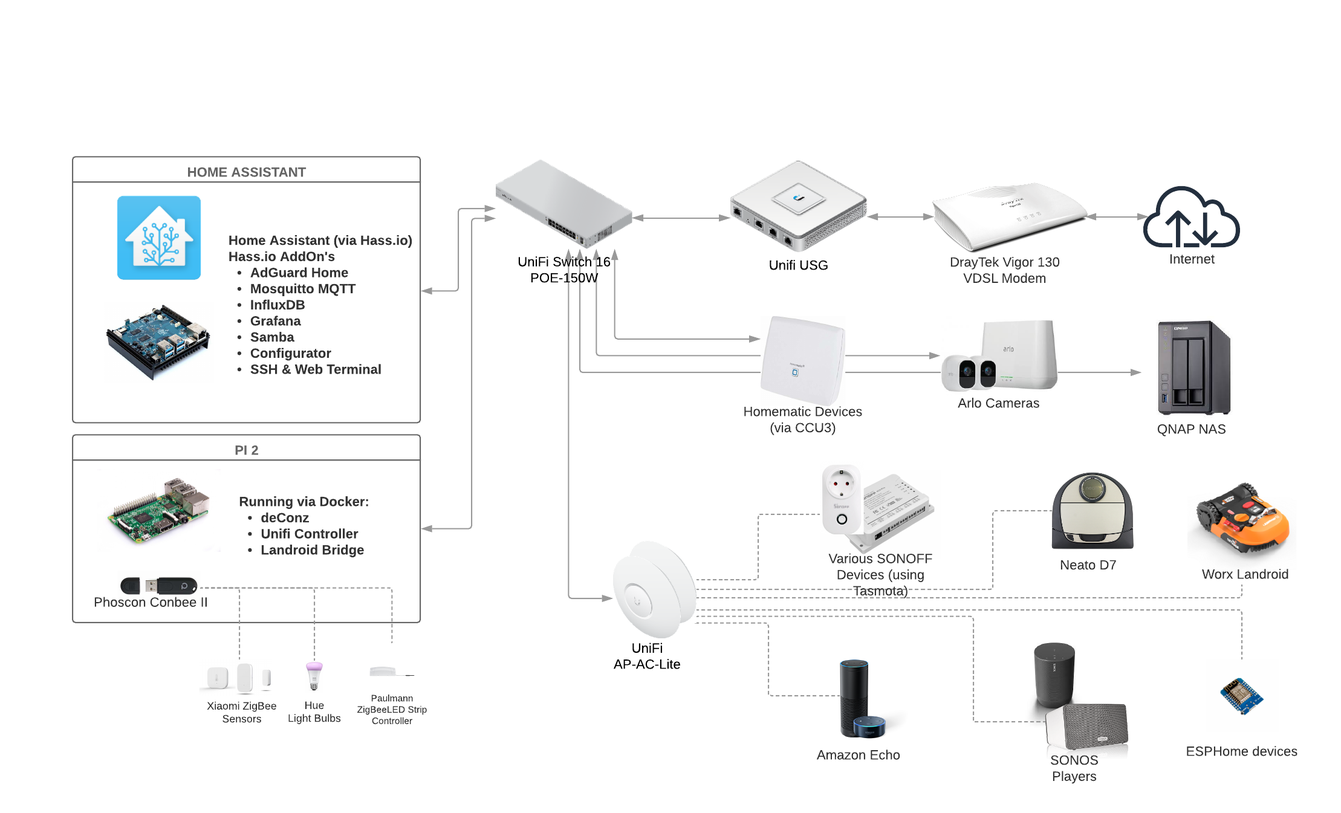
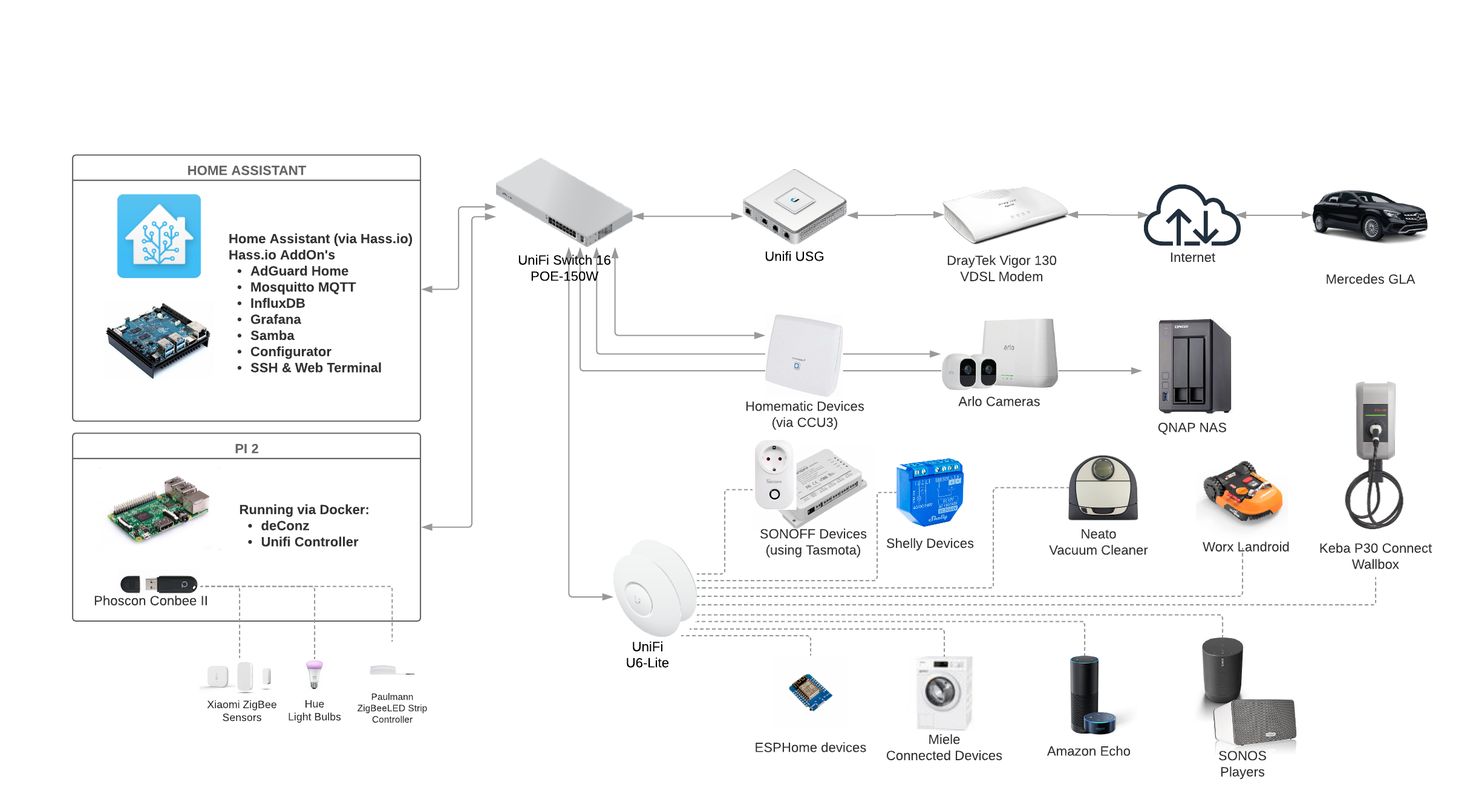
Update readme

diff --git a/readme.md b/readme.md
@@ -49,52 +49,53 @@ My Home Assistant system currently runs on a ODROID-N2. All is managed by hass.i
 
 #### Hubs
 
-| Device                                                                                                      |                          Home Assistant                          | Notes                                 |
-| ----------------------------------------------------------------------------------------------------------- | :--------------------------------------------------------------: | ------------------------------------- |
-| [Homematic CCU3](https://www.homematic-ip.com/en/products/detail/smart-home-central-control-unit-ccu3.html) | [Homematic](https://www.home-assistant.io/components/homematic/) | Used to control all Homematic devices |
-| [deCONZ Conbee II](https://www.phoscon.de/en/conbee2)                                                       |    [deCONZ](https://www.home-assistant.io/components/deconz/)    | The main ZigBee Hub                   |
-| [Arlo Hub](https://shop.arlo.com/accessories.arlo/VMB4000-100NAS.html)                                      | [Aarlo](https://github.com/twrecked/hass-aarlo) custom component | Arlo camera system integration        |
+| Device                                                                                                                                                               |                                                      Home Assistant                                                       | Notes                                                                                          |
+|----------------------------------------------------------------------------------------------------------------------------------------------------------------------|:-------------------------------------------------------------------------------------------------------------------------:|------------------------------------------------------------------------------------------------|
+| [Homematic CCU3](https://www.homematic-ip.com/en/products/detail/smart-home-central-control-unit-ccu3.html)                                                          |                             [Homematic](https://www.home-assistant.io/components/homematic/)                              | Used to control all Homematic devices                                                          |
+| [deCONZ Conbee II](https://www.phoscon.de/en/conbee2)                                                                                                                |                                [deCONZ](https://www.home-assistant.io/components/deconz/)                                 | The main ZigBee Hub                                                                            |
+| [Arlo Hub](https://shop.arlo.com/accessories.arlo/VMB4000-100NAS.html)                                                                                               |                             [Aarlo](https://github.com/twrecked/hass-aarlo) custom component                              | Arlo camera system integration                                                                 |
 
 #### Network
 
-| Device                                                                                                             | Quantity | Home Assistant                                                    | Notes                                                   |
-| ------------------------------------------------------------------------------------------------------------------ | :------: | ----------------------------------------------------------------- | ------------------------------------------------------- |
-| [Ubiquiti Networks UniFi Switch - 16 Ports (US-16-150W)](https://www.ui.com/unifi-switching/unifi-switch-16-150w/) |    1     | [Ubiquiti Unifi](https://www.home-assistant.io/components/unifi/) | Primary network switch                                  |
-| [Ubiquiti Networks USW Flex Mini Swicth (USW-Flex-Mini)](https://store.ui.com/products/usw-flex-mini)              |    1     | [Ubiquiti Unifi](https://www.home-assistant.io/components/unifi/) | Office desk mini switch                                 |
-| [Ubiquiti Networks Unifi AP Lite (UAP-AC-LITE)](https://www.ui.com/unifi/unifi-ap-ac-lite/)                        |    2     | [Ubiquiti Unifi](https://www.home-assistant.io/components/unifi/) | Wireless Access Point for interior use.                 |
-| [Ubiquiti Unifi Security Gateway (USG)](https://www.ui.com/unifi-routing/usg/)                                     |    1     | [Ubiquiti Unifi](https://www.home-assistant.io/components/unifi/) | Main router & firewall device                           |
-| [Draytek Vigor 130 ADSL/VDSL modem](https://www.draytek.com/products/vigor130/)                                    |    1     | n/a                                                               | Main DSL device fot the connection to the outside world |
+| Device                                                                                                                                               |                  Quantity                  | Home Assistant                                                                                     | Notes                                                                                    |
+|------------------------------------------------------------------------------------------------------------------------------------------------------|:------------------------------------------:|----------------------------------------------------------------------------------------------------|------------------------------------------------------------------------------------------|
+| [Ubiquiti Networks UniFi Switch - 16 Ports (US-16-150W)](https://www.ui.com/unifi-switching/unifi-switch-16-150w/)                                   |                     1                      | [Ubiquiti Unifi](https://www.home-assistant.io/components/unifi/)                                  | Primary network switch                                                                   |
+| [Ubiquiti Networks USW Flex Mini Swicth (USW-Flex-Mini)](https://store.ui.com/products/usw-flex-mini)                                                |                     1                      | [Ubiquiti Unifi](https://www.home-assistant.io/components/unifi/)                                  | Office desk mini switch                                                                  |
+| [Ubiquiti Networks Unifi AP Lite (UAP-AC-LITE)](https://www.ui.com/unifi/unifi-ap-ac-lite/)                                                          |                     2                      | [Ubiquiti Unifi](https://www.home-assistant.io/components/unifi/)                                  | Wireless Access Point for interior use.                                                  |
+| [Ubiquiti Unifi Security Gateway (USG)](https://www.ui.com/unifi-routing/usg/)                                                                       |                     1                      | [Ubiquiti Unifi](https://www.home-assistant.io/components/unifi/)                                  | Main router & firewall device                                                            |
+| [Draytek Vigor 130 ADSL/VDSL modem](https://www.draytek.com/products/vigor130/)                                                                      |                     1                      | n/a                                                                                                | Main DSL device fot the connection to the outside world                                  |
 
 On network gear we are all-in for Unifi devices, they provide a reliable and stable network for our house. Many of the devices have been in service for years. The Draytek modem is connected to the DSL line of the internet provider. The Unifi network equipment is also used as one of the presence detection methods.
 
 #### Lighting
 
-| Device                                                                                                                                           | Quantity |                              Home Assistant                              | Notes                                      |
-| ------------------------------------------------------------------------------------------------------------------------------------------------ | :------: | :----------------------------------------------------------------------: | ------------------------------------------ |
-| [Philips Hue White and Color Ambiance](https://www2.meethue.com/en-gb/p/hue-white-and-colour-ambience-1-pack-e27/8718699673109)                  |    3     | [Philips Hue Light](https://www.home-assistant.io/components/light.hue/) | Color-changing smart bulbs                 |
-| [Philips Hue White and Color Ambiance LightStrip](https://www2.meethue.com/en-gb/p/hue-white-and-colour-ambience-lightstrip-plus/7190155PH)      |    2     | [Philips Hue Light](https://www.home-assistant.io/components/light.hue/) | Ambiante lights in kitchen and for TV wall |
-| [Paulman RGBW Controller ZigBee](https://de.paulmann.com/innenleuchten/smart-home/zigbee/smarthome-zigbee-maxled-rgbw-controller-max.-72w/50047) |    1     |  [deCONZ Light](https://www.home-assistant.io/components/deconz/#light)  | Driver for old reused classic LED strip    |
-| [Sonoff S20 Smart Socket](https://sonoff.tech/product/wifi-smart-plugs/s20)                                                                      |    9     |   [MQTT Switch](https://www.home-assistant.io/components/switch.mqtt/)   | The main Christmas season light driver     |
+| Device                                                                                                                                                                       |               Quantity               |                                           Home Assistant                                            | Notes                                                                 |
+|------------------------------------------------------------------------------------------------------------------------------------------------------------------------------|:------------------------------------:|:---------------------------------------------------------------------------------------------------:|-----------------------------------------------------------------------|
+| [Philips Hue White and Color Ambiance](https://www2.meethue.com/en-gb/p/hue-white-and-colour-ambience-1-pack-e27/8718699673109)                                              |                  3                   |              [Philips Hue Light](https://www.home-assistant.io/components/light.hue/)               | Color-changing smart bulbs                                            |
+| [Philips Hue White and Color Ambiance LightStrip](https://www2.meethue.com/en-gb/p/hue-white-and-colour-ambience-lightstrip-plus/7190155PH)                                  |                  2                   |              [Philips Hue Light](https://www.home-assistant.io/components/light.hue/)               | Ambiante lights in kitchen and for TV wall                            |
+| [Paulman RGBW Controller ZigBee](https://de.paulmann.com/innenleuchten/smart-home/zigbee/smarthome-zigbee-maxled-rgbw-controller-max.-72w/50047)                             |                  1                   |               [deCONZ Light](https://www.home-assistant.io/components/deconz/#light)                | Driver for old reused classic LED strip                               |
+| [Sonoff S20 Smart Socket](https://sonoff.tech/product/wifi-smart-plugs/s20)                                                                                                  |                  11                  |                                                                                                     | The main Christmas season light driver                                |
+| ESP8266 with [WLED](https://kno.wled.ge/)                                                                                                                                    |                  3                   |                      [WLED](https://www.home-assistant.io/integrations/wled/)                       | Controlling outdoor fairy lights                                      |
 
 #### Outlets & Switches
 
-| Device                                                                                                                                                                                                          | Quantity |                             Home Assistant                              | Notes                                                               |
-| --------------------------------------------------------------------------------------------------------------------------------------------------------------------------------------------------------------- | :------: | :---------------------------------------------------------------------: | ------------------------------------------------------------------- |
-| [Wireless Switch Actuator 1-channel with power metering (HM-ES-PMSw1-Pl-DN-R1)](https://www.eq-3.com/products/homematic/detail/wireless-switch-actuator-1-channel-with-power-metering-plug-adapter-type-f.html) |    3     | [Homematic Switch](https://www.home-assistant.io/components/homematic/) | Indoor outlet for selected devices, mainly for power metering       |
-| [Wireless Switch Actuator 1-channel, flush-mount (HM-LC-Sw1-FM)](https://www.eq-3.com/products/homematic/detail/homematic-wireless-switch-actuator-1-channel-flush-mount.html)                                  |    1     | [Homematic Switch](https://www.home-assistant.io/components/homematic/) | Hallway light switch                                                |
-| [Wireless Switch Actuator 1-channel, DIN-rail mount (HM-LC-Sw1-DR)](https://www.eq-3.com/products/homematic/detail/wireless-switch-actuator-1-channel-din-rail-mount.html)                                      |    4     | [Homematic Switch](https://www.home-assistant.io/components/homematic/) | Used to control outdoor                                             |
-| [Wireless Switch Actuator 2-channel with power metering, DIN-rail mount (HM-ES-PMSw1-DR)](https://de.elv.com/elv-homematic-hutschienen-schaltaktor-mit-leistungsmessung-hm-es-pmsw1-dr-150749?fs=648590641)     |    4     | [Homematic Switch](https://www.home-assistant.io/components/homematic/) | Used to control pumps of the pool and water tank                    |
-| [Wireless Switch Actuator 4-channel, DIN-rail mount (HM-LC-Sw4-DR)](https://www.eq-3.com/products/homematic/detail/homematic-wireless-switch-actuator-4-channel-din-rail-mount.html)                            |    1     | [Homematic Switch](https://www.home-assistant.io/components/homematic/) | Used to control outdoor and pool lighting                           |
-| [Sonoff S20 Smart Socket](https://sonoff.tech/product/wifi-smart-plugs/s20)                                                                                                                                     |    11    |  [MQTT Switch](https://www.home-assistant.io/components/switch.mqtt/)   | The main Christmas season light driver                              |
-| [Sonoff 4CH Pro R2](https://sonoff.tech/product/wifi-diy-smart-switches/4ch-r2-pro-r2)                                                                                                                          |    1     |  [MQTT Switch](https://www.home-assistant.io/components/switch.mqtt/)   | Used to control outdoor garden low power lighting                   |
-| [Sonoff TH16](https://sonoff.tech/product/wifi-diy-smart-switches/th10-th16)                                                                                                                                    |    1     |  [MQTT Switch](https://www.home-assistant.io/components/switch.mqtt/)   | Carport light and outdoor temperature & humidity with Si7021 sensor |
+| Device                                                                                                                                                                                                                |    Quantity    |                                Home Assistant                                 | Notes                                                                    |
+|-----------------------------------------------------------------------------------------------------------------------------------------------------------------------------------------------------------------------|:--------------:|:-----------------------------------------------------------------------------:|--------------------------------------------------------------------------|
+| [Wireless Switch Actuator 1-channel with power metering (HM-ES-PMSw1-Pl-DN-R1)](https://www.eq-3.com/products/homematic/detail/wireless-switch-actuator-1-channel-with-power-metering-plug-adapter-type-f.html)       |       3        |    [Homematic Switch](https://www.home-assistant.io/components/homematic/)    | Indoor outlet for selected devices, mainly for power metering            |
+| [Wireless Switch Actuator 1-channel, flush-mount (HM-LC-Sw1-FM)](https://www.eq-3.com/products/homematic/detail/homematic-wireless-switch-actuator-1-channel-flush-mount.html)                                        |       1        |    [Homematic Switch](https://www.home-assistant.io/components/homematic/)    | Hallway light switch                                                     |
+| [Wireless Switch Actuator 1-channel, DIN-rail mount (HM-LC-Sw1-DR)](https://www.eq-3.com/products/homematic/detail/wireless-switch-actuator-1-channel-din-rail-mount.html)                                            |       2        |    [Homematic Switch](https://www.home-assistant.io/components/homematic/)    | Used to control outdoor                                                  |
+| [Wireless Switch Actuator 2-channel with power metering, DIN-rail mount (HM-ES-PMSw1-DR)](https://de.elv.com/elv-homematic-hutschienen-schaltaktor-mit-leistungsmessung-hm-es-pmsw1-dr-150749?fs=648590641)           |       3        |    [Homematic Switch](https://www.home-assistant.io/components/homematic/)    | Used to control pumps of the pool and water tank                         |
+| [Sonoff S20 Smart Socket](https://sonoff.tech/product/wifi-smart-plugs/s20)                                                                                                                                           |       11       |        [Tasmota](https://www.home-assistant.io/integrations/tasmota/)         | The main Christmas season light driver                                   |
+| [Sonoff 4CH Pro R2](https://sonoff.tech/product/wifi-diy-smart-switches/4ch-r2-pro-r2)                                                                                                                                |       1        |        [Tasmota](https://www.home-assistant.io/integrations/tasmota/)         | Used to control outdoor garden low power lighting                        |
+| [Sonoff TH16](https://sonoff.tech/product/wifi-diy-smart-switches/th10-th16)                                                                                                                                          |       1        |        [Tasmota](https://www.home-assistant.io/integrations/tasmota/)         | Carport light and outdoor temperature & humidity with Si7021 sensor      |
+| [Shelly 2.5](https://shelly.cloud/products/shelly-25-smart-home-automation-relay/)                                                                                                                                    |       3        |         [Shelly](https://www.home-assistant.io/integrations/shelly/)          | Used to control various outdoor, pond pumps and pool lighting            |
 
 Switches and outlets are used in various capacities, most are for lighting and some are for pool & pump devices. For devices consuming more energy I prefer the Homematic devices, they give a good and secure overall impression. For seasonal Christmas lighting (most are low power LEDs) I mainly use Sonoff outlets flashed with [Tasmota Firmware](https://github.com/arendst/Tasmota).
 
 #### Sensors
 
 | Device                                                                                                                                                          | Quantity |                              Home Assistant                              | Notes                                                                                                                                     |
-| --------------------------------------------------------------------------------------------------------------------------------------------------------------- | :------: | :----------------------------------------------------------------------: | ----------------------------------------------------------------------------------------------------------------------------------------- |
+|-----------------------------------------------------------------------------------------------------------------------------------------------------------------|:--------:|:------------------------------------------------------------------------:|-------------------------------------------------------------------------------------------------------------------------------------------|
 | [Wireless Differential Temperature Sensor (HM-WDS30-OT2-SM)](https://www.eq-3.com/products/homematic/detail/homematic-wireless-temperature-sensor-outdoor.html) |    2     | [Homematic Sensor](https://www.home-assistant.io/components/homematic/)  | Pool & solar temperature sensor for pool automation                                                                                       |
 | [Xiaomi Aqara Smart Temperature Humidity Sensor](https://nis-store.com/sockets-and-sensors/aqara-temperature-and-humidity-sensor/)                              |    6     | [deCONZ Sensor](https://www.home-assistant.io/components/deconz/#sensor) | Main indoor temperature & humidity sensor                                                                                                 |
 | [Xiaomi Aqara Smart Vibration Sensor](https://www.gearbest.com/smart-home-controls/pp_009661787808.html)                                                        |    2     | [deCONZ Sensor](https://www.home-assistant.io/components/deconz/#sensor) | Moving detection of our garden bench ;-)                                                                                                  |
@@ -105,30 +106,30 @@ Most of the sensor got replaced with Xiaomi Aqara devices recently, they are sma
 
 #### Security
 
-| Device                                                                                                                                                 | Quantity |                                 Home Assistant                                 | Notes                                                                        |
-| ------------------------------------------------------------------------------------------------------------------------------------------------------ | :------: | :----------------------------------------------------------------------------: | ---------------------------------------------------------------------------- |
-| [Wireless Door/Window Sensor, optical (HM-Sec-SCo)](https://www.eq-3.com/products/homematic/detail/homematic-wireless-door-window-sensor-optical.html) |    9     | [Homematic Binary Sensor](https://www.home-assistant.io/components/homematic/) | Door sensors to detect if windows & exterior doors have been opened / closed |
-| [Wireless Shutter Contact (HM-Sec-SC-2)](https://www.eq-3.com/products/homematic/detail/homematic-wireless-window-sensor.html)                         |    1     | [Homematic Binary Sensor](https://www.home-assistant.io/components/homematic/) | Door sensors to detect if windows have been opened / closed                  |
-| [Wireless Motion Detector (HM-Sec-MDIR-3)](https://www.eq-3.com/products/homematic/detail/homematic-wireless-motion-detector-indoor.html)              |    3     | [Homematic Binary Sensor](https://www.home-assistant.io/components/homematic/) | Indoor motion detection                                                      |
-| [Wireless Siren (HM-Sec-Sir-WM)](https://www.eq-3.com/products/homematic/detail/homematic-wireless-siren-with-signal-light.html)                       |    2     |    [Homematic Switch](https://www.home-assistant.io/components/homematic/)     | Indoor alarm siren                                                           |
-| [Rademacher DuoFern Motor Actuator 9471-1](https://www.rademacher.de/en/smart-home/produkte/rohrmotor-aktor-9471-1?productID=35140662)                 |    9     |       [pyduofern](https://github.com/gluap/pyduofern) (custom component)       | Flush-mounted actuator for roller shutter motors                             |
+| Device                                                                                                                                                                 |         Quantity         |                                         Home Assistant                                         | Notes                                                                                        |
+|------------------------------------------------------------------------------------------------------------------------------------------------------------------------|:------------------------:|:----------------------------------------------------------------------------------------------:|----------------------------------------------------------------------------------------------|
+| [Wireless Door/Window Sensor, optical (HM-Sec-SCo)](https://www.eq-3.com/products/homematic/detail/homematic-wireless-door-window-sensor-optical.html)                 |            9             |         [Homematic Binary Sensor](https://www.home-assistant.io/components/homematic/)         | Door sensors to detect if windows & exterior doors have been opened / closed                 |
+| [Wireless Shutter Contact (HM-Sec-SC-2)](https://www.eq-3.com/products/homematic/detail/homematic-wireless-window-sensor.html)                                         |            1             |         [Homematic Binary Sensor](https://www.home-assistant.io/components/homematic/)         | Door sensors to detect if windows have been opened / closed                                  |
+| [Wireless Motion Detector (HM-Sec-MDIR-3)](https://www.eq-3.com/products/homematic/detail/homematic-wireless-motion-detector-indoor.html)                              |            3             |         [Homematic Binary Sensor](https://www.home-assistant.io/components/homematic/)         | Indoor motion detection                                                                      |
+| [Wireless Siren (HM-Sec-Sir-WM)](https://www.eq-3.com/products/homematic/detail/homematic-wireless-siren-with-signal-light.html)                                       |            2             |            [Homematic Switch](https://www.home-assistant.io/components/homematic/)             | Indoor alarm siren                                                                           |
+| [Rademacher DuoFern Motor Actuator 9471-1](https://www.rademacher.de/en/smart-home/produkte/rohrmotor-aktor-9471-1?productID=35140662)                                 |            9             |               [pyduofern](https://github.com/gluap/pyduofern) (custom component)               | Flush-mounted actuator for roller shutter motors                                             |
 
 #### Media & Voice Assistant
 
-| Device                                                         | Quantity |                            Home Assistant                             | Notes                                                                                                     |
-| -------------------------------------------------------------- | :------: | :-------------------------------------------------------------------: | --------------------------------------------------------------------------------------------------------- |
-| [Sonos Play:3](https://www.sonos.com/en-us/home)               |    1     | [Sonos](https://www.home-assistant.io/components/media_player.sonos/) | Our main music system in the house and Home Assistant TTS                                                 |
-| [Sonos Move](https://www.sonos.com/en-us/shop/move.html)       |    1     | [Sonos](https://www.home-assistant.io/components/media_player.sonos/) | This little thing has enough power to stream music into our livingroom and we take it outside very often. |
-| [Sonos PlayBar](https://www.sonos.com/en-us/shop/playbar.html) |    1     | [Sonos](https://www.home-assistant.io/components/media_player.sonos/) | TV and livingroom sound                                                                                   |
-| [Sonos Sub](https://www.sonos.com/en-us/shop/sub.html)         |    1     | [Sonos](https://www.home-assistant.io/components/media_player.sonos/) | TV and livingroom sound                                                                                   |
-| [Amazon Echo](https://amzn.to/2HM0XIW)                         |    1     |         Via [Nabu Casa](https://www.home-assistant.io/cloud/)         | Voice control                                                                                             |
+| Device                                                                                          |                 Quantity                  |                                             Home Assistant                                             | Notes                                                                                                                                      |
+|-------------------------------------------------------------------------------------------------|:-----------------------------------------:|:------------------------------------------------------------------------------------------------------:|--------------------------------------------------------------------------------------------------------------------------------------------|
+| [Sonos Move](https://www.sonos.com/en-us/shop/move.html)                                        |                     1                     |                 [Sonos](https://www.home-assistant.io/components/media_player.sonos/)                  | This little thing has enough power to stream music into our livingroom and we take it outside very often.                                  |
+| [Sonos Roam](https://www.sonos.com/en-us/shop/move.html)                                        |                     1                     |                 [Sonos](https://www.home-assistant.io/components/media_player.sonos/)                  | Some music for my office                                                                                                                   |
+| [Sonos PlayBar](https://www.sonos.com/en-us/shop/playbar.html)                                  |                     1                     |                 [Sonos](https://www.home-assistant.io/components/media_player.sonos/)                  | TV and livingroom sound                                                                                                                    |
+| [Sonos Sub](https://www.sonos.com/en-us/shop/sub.html)                                          |                     1                     |                 [Sonos](https://www.home-assistant.io/components/media_player.sonos/)                  | TV and livingroom sound                                                                                                                    |
+| [Amazon Echo](https://amzn.to/2HM0XIW)                                                          |                     1                     |                         Via [Nabu Casa](https://www.home-assistant.io/cloud/)                          | Voice control                                                                                                                              |
 
 #### Cameras
 
-| Device                              | Quantity |                 Home Assistant                  | Notes                                                  |
-| ----------------------------------- | :------: | :---------------------------------------------: | ------------------------------------------------------ |
-| [Arlo HD](https://www.arlo.com/)    |    3     | [Aarlo](https://github.com/twrecked/hass-aarlo) | Started with these, then added Arlo Pro 2 later        |
-| [Arlo Pro 2](https://www.arlo.com/) |    2     | [Aarlo](https://github.com/twrecked/hass-aarlo) | Definitely much better quality then the 1st generation |
+| Device                                                                                        |                              Quantity                              |                                              Home Assistant                                               | Notes                                                                                                            |
+|-----------------------------------------------------------------------------------------------|:------------------------------------------------------------------:|:---------------------------------------------------------------------------------------------------------:|------------------------------------------------------------------------------------------------------------------|
+| [Arlo HD](https://www.arlo.com/)                                                              |                                 3                                  |                              [Aarlo](https://github.com/twrecked/hass-aarlo)                              | Started with these, then added Arlo Pro 2 later                                                                  |
+| [Arlo Pro 2](https://www.arlo.com/)                                                           |                                 2                                  |                              [Aarlo](https://github.com/twrecked/hass-aarlo)                              | Definitely much better quality then the 1st generation                                                           |
 
 The main argument for us to choose Arlo cameras were they are powered
 via a battery since we have them placed mainly in places without power supply.
@@ -137,16 +138,23 @@ The original Arlo HD requires special batteries and last ~6 months on one set.
 The Arlo Pro 2 comes with a rechargeable battery pack or can be operated
 with USB power supply.
 
+#### Car
+
+| Device                                                                                                                                           |                                                   Home Assistant                                                    | Notes                                                                                                                    |
+|--------------------------------------------------------------------------------------------------------------------------------------------------|:-------------------------------------------------------------------------------------------------------------------:|--------------------------------------------------------------------------------------------------------------------------|
+| [Mercedes GLA](https://www.mercedes-benz.com/en/vehicles/passenger-cars/gla/)                                                                    |                             [mercedesme2020](https://github.com/ReneNulschDE/mbapi2020)                             | Custom integration managed via HACS                                                                                      |
+| [Keba P30 Connect](https://www.keba.com/en/emobility/products/c-series/c-series) wallbox                                                         |                              [Keba](https://www.home-assistant.io/integrations/keba/)                               | Charging station connected via LAN and Unifi U6 using brigde mode                                                        |
+
 #### Other devices and virtual sensors
 
-| Device / Sensor | Home Assistant | Notes |
-| --------------------------------------------------------------------------------------------------------------------------- | :--------------------------------------------------------: | ---------------------------------------------------------------------------------------- |
-| [Neato Botvac D7](https://neatorobotics.com/) | [Neato](https://www.home-assistant.io/integrations/neato/) | Robot number 1, not much to say, does the job. Actually so good, we now have two of them ;-) |
-| [Worx Landroid S](https://worx-europe.com/) | [REST](https://www.home-assistant.io/components/rest/)   | Robot number 2, we call it "Shaun". This little guy is integrated via Landroid cloud API |
-[Hunter Pro-HC](https://www.hunterindustries.com/en-metric/irrigation-product/controllers/pro-hc) | [Hunter Hydrawise](https://www.home-assistant.io/integrations/hydrawise/) | Controls watering of the lawn and plants around the house. |
-| Mailbox via 2 [Xiaomi Aqara Window Door Sensor](https://xiaomi-mi.com/sockets-and-sensors/xiaomi-aqara-window-door-sensor/) | [deCONZ](https://www.home-assistant.io/components/deconz/) | Detect opening of the mailbox flap or door |
-| ESPHome Watertank Sensor | [ESPHome](https://www.home-assistant.io/integrations/esphome/) | To measure the water level of our garden cistern to ensure that our plants always get enough water. |
-| Waste Collection Sensor | [Waste Collection Schedule](https://github.com/mampfes/hacs_waste_collection_schedule) | Waste collection integration reminds us not to forget the garbage cans. Works well with the iCal Calender provided by our local garbage disposal company. |
+| Device / Sensor                                                                                                                   |                                        Home Assistant                                        | Notes                                                                                                                                                          |
+|-----------------------------------------------------------------------------------------------------------------------------------|:--------------------------------------------------------------------------------------------:|----------------------------------------------------------------------------------------------------------------------------------------------------------------|
+| [Neato Botvac D7](https://neatorobotics.com/)                                                                                     |                  [Neato](https://www.home-assistant.io/integrations/neato/)                  | Robot number 1, not much to say, does the job. Actually so good, we now have two of them ;-)                                                                   |
+| [Worx Landroid S](https://worx-europe.com/)                                                                                       |                    [REST](https://www.home-assistant.io/components/rest/)                    | Robot number 2, we call it "Shaun". This little guy is integrated via Landroid cloud API                                                                       |
+| [Hunter Pro-HC](https://www.hunterindustries.com/en-metric/irrigation-product/controllers/pro-hc)                                 |          [Hunter Hydrawise](https://www.home-assistant.io/integrations/hydrawise/)           | Controls watering of the lawn and plants around the house.                                                                                                     |
+| Mailbox via 2 [Xiaomi Aqara Window Door Sensor](https://xiaomi-mi.com/sockets-and-sensors/xiaomi-aqara-window-door-sensor/)       |                  [deCONZ](https://www.home-assistant.io/components/deconz/)                  | Detect opening of the mailbox flap or door                                                                                                                     |
+| ESPHome Watertank Sensor                                                                                                          |                [ESPHome](https://www.home-assistant.io/integrations/esphome/)                | To measure the water level of our garden cistern to ensure that our plants always get enough water.                                                            |
+| Waste Collection Sensor                                                                                                           |    [Waste Collection Schedule](https://github.com/mampfes/hacs_waste_collection_schedule)    | Waste collection integration reminds us not to forget the garbage cans. Works well with the iCal Calender provided by our local garbage disposal company.      |
 
 [home-assistant]: https://home-assistant.io
 [home-assistant-shield]: https://img.shields.io/badge/Home%20Assistant-2021.12.6-blue
